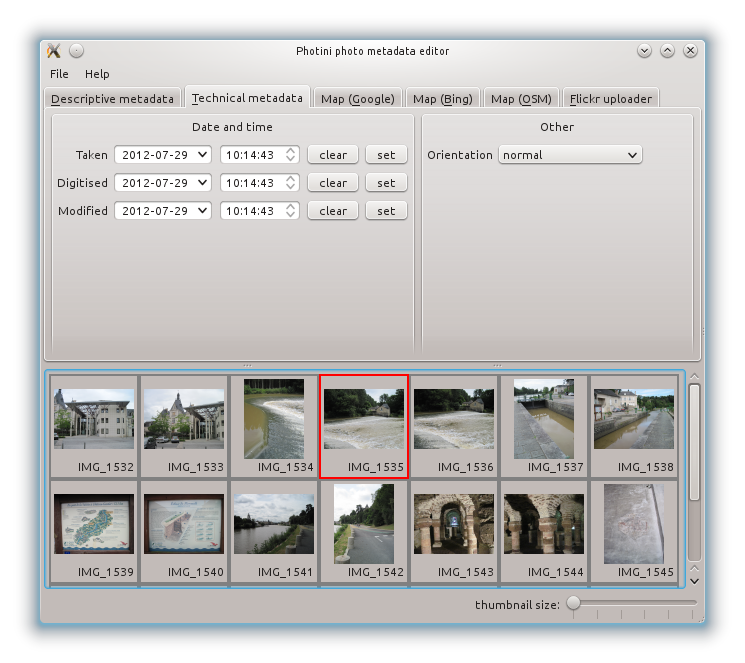
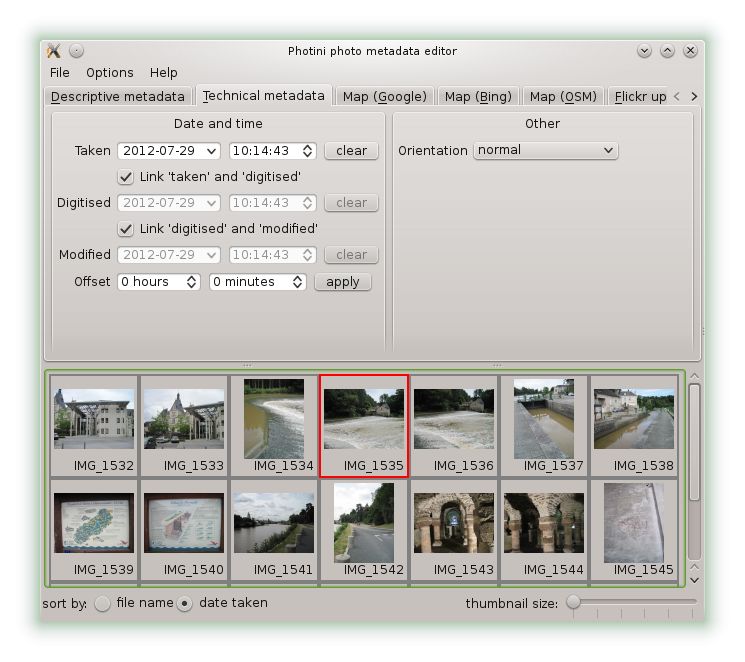
Updated documentation.

diff --git a/doc_src/conf.py b/doc_src/conf.py
@@ -42,7 +42,7 @@ master_doc = 'index'
 
 # General information about the project.
 project = u'Photini'
-copyright = u'2012-13, Jim Easterbrook'
+copyright = u'2012-14, Jim Easterbrook'
 
 # The version info for the project you're documenting, acts as replacement for
 # |version| and |release|, also used in various other places throughout the
@@ -52,8 +52,9 @@ copyright = u'2012-13, Jim Easterbrook'
 #version = 
 # The full version, including alpha/beta/rc tags.
 #release = 
-from photini.version import version, release
-release = '%s_r%s' % (version, release)
+import photini.version
+release = photini.version.version
+version = '.'.join(photini.version.version.split('.')[0:2])
 
 # The language for content autogenerated by Sphinx. Refer to documentation
 # for a list of supported languages.

diff --git a/photini/version.py b/photini/version.py
@@ -1,3 +1,3 @@
-version = '14.04.dev53'
-release = '53'
-commit = 'd098ef3'
+version = '14.04.dev54'
+release = '54'
+commit = '1fbee12'

diff --git a/doc_src/manual/technical_metadata.rst b/doc_src/manual/technical_metadata.rst
@@ -6,10 +6,14 @@ Generally you should not need to edit any of this data, as it should have been c
 
 .. image:: ../images/screenshot_12.png
 
-The date and time fields can be cleared with the ``clear`` button or set to the current date and time with the ``set`` button.
 The date can also be picked from a calendar widget that pops up when you click on the down arrow.
 The time can be adjusted by clicking on the hour, minute or second and then using the up or down arrows.
+The date and time fields can be cleared with the ``clear`` button.
+The ``Link ...`` tickboxes allow the different date & time values to be changed simultaneously.
+
+The ``Offset`` fields allow a constant offset to be applied to the time stamps of several pictures at once.
+This can be useful if you forgot to set your camera's clock before a day's shooting!
 
 The ``Orientation`` value sets the required rotation or reflection to display the image.
 Note that this does not actually transform the image data.
-Image display programs should rotate or reflect the image according to the orientation metadata, but not all do.
+Image display programs should rotate or reflect the image according to the orientation metadata, but not all of them do.

diff --git a/doc_src/workflow.rst b/doc_src/workflow.rst
@@ -18,7 +18,9 @@ Load images
 
 Select the ``File`` menu ``Open images`` item (keyboard shortcut ``Ctrl+O``).
 This opens a file selection dialog with which you can navigate to your image folder and select one or more image files to open.
-Photini doesn't set any limit to the number of files you can open simultaneously, but it's probably sensible not to open more than 30 or 40, depending on the memory capacity and processing power of your computer.
+If you prefer, you can "drag and drop" image files from a file manager window to the Photini editor's image selector.
+
+Photini doesn't set a limit to the number of files you can open simultaneously, but it's probably sensible not to open more than 30 or 40, depending on the memory capacity and processing power of your computer.
 I usually load all the photographs taken on one day, or in one place.
 
 Each image file is shown as a thumbnail image in the lower half of the Photini editor GUI.

diff --git a/doc_src/manual/image_selector.rst b/doc_src/manual/image_selector.rst
@@ -14,7 +14,7 @@ The overall size of the window can also be changed by dragging its edges or corn
 
 .. image:: ../images/screenshot_02.png
 
-Now load some images using the ``File`` menu ``Open images`` item (or its keyboard shortcut ``Ctrl+O``).
+Now load some images using the ``File`` menu ``Open images`` item (or its keyboard shortcut ``Ctrl+O``) or by "drag and drop" from a file manager window.
 The loaded images are displayed as thumbnail images in the image selector part of the GUI.
 Note that the thumbnail size can be changed with the slider control just beneath the thumbnail display area.
 
